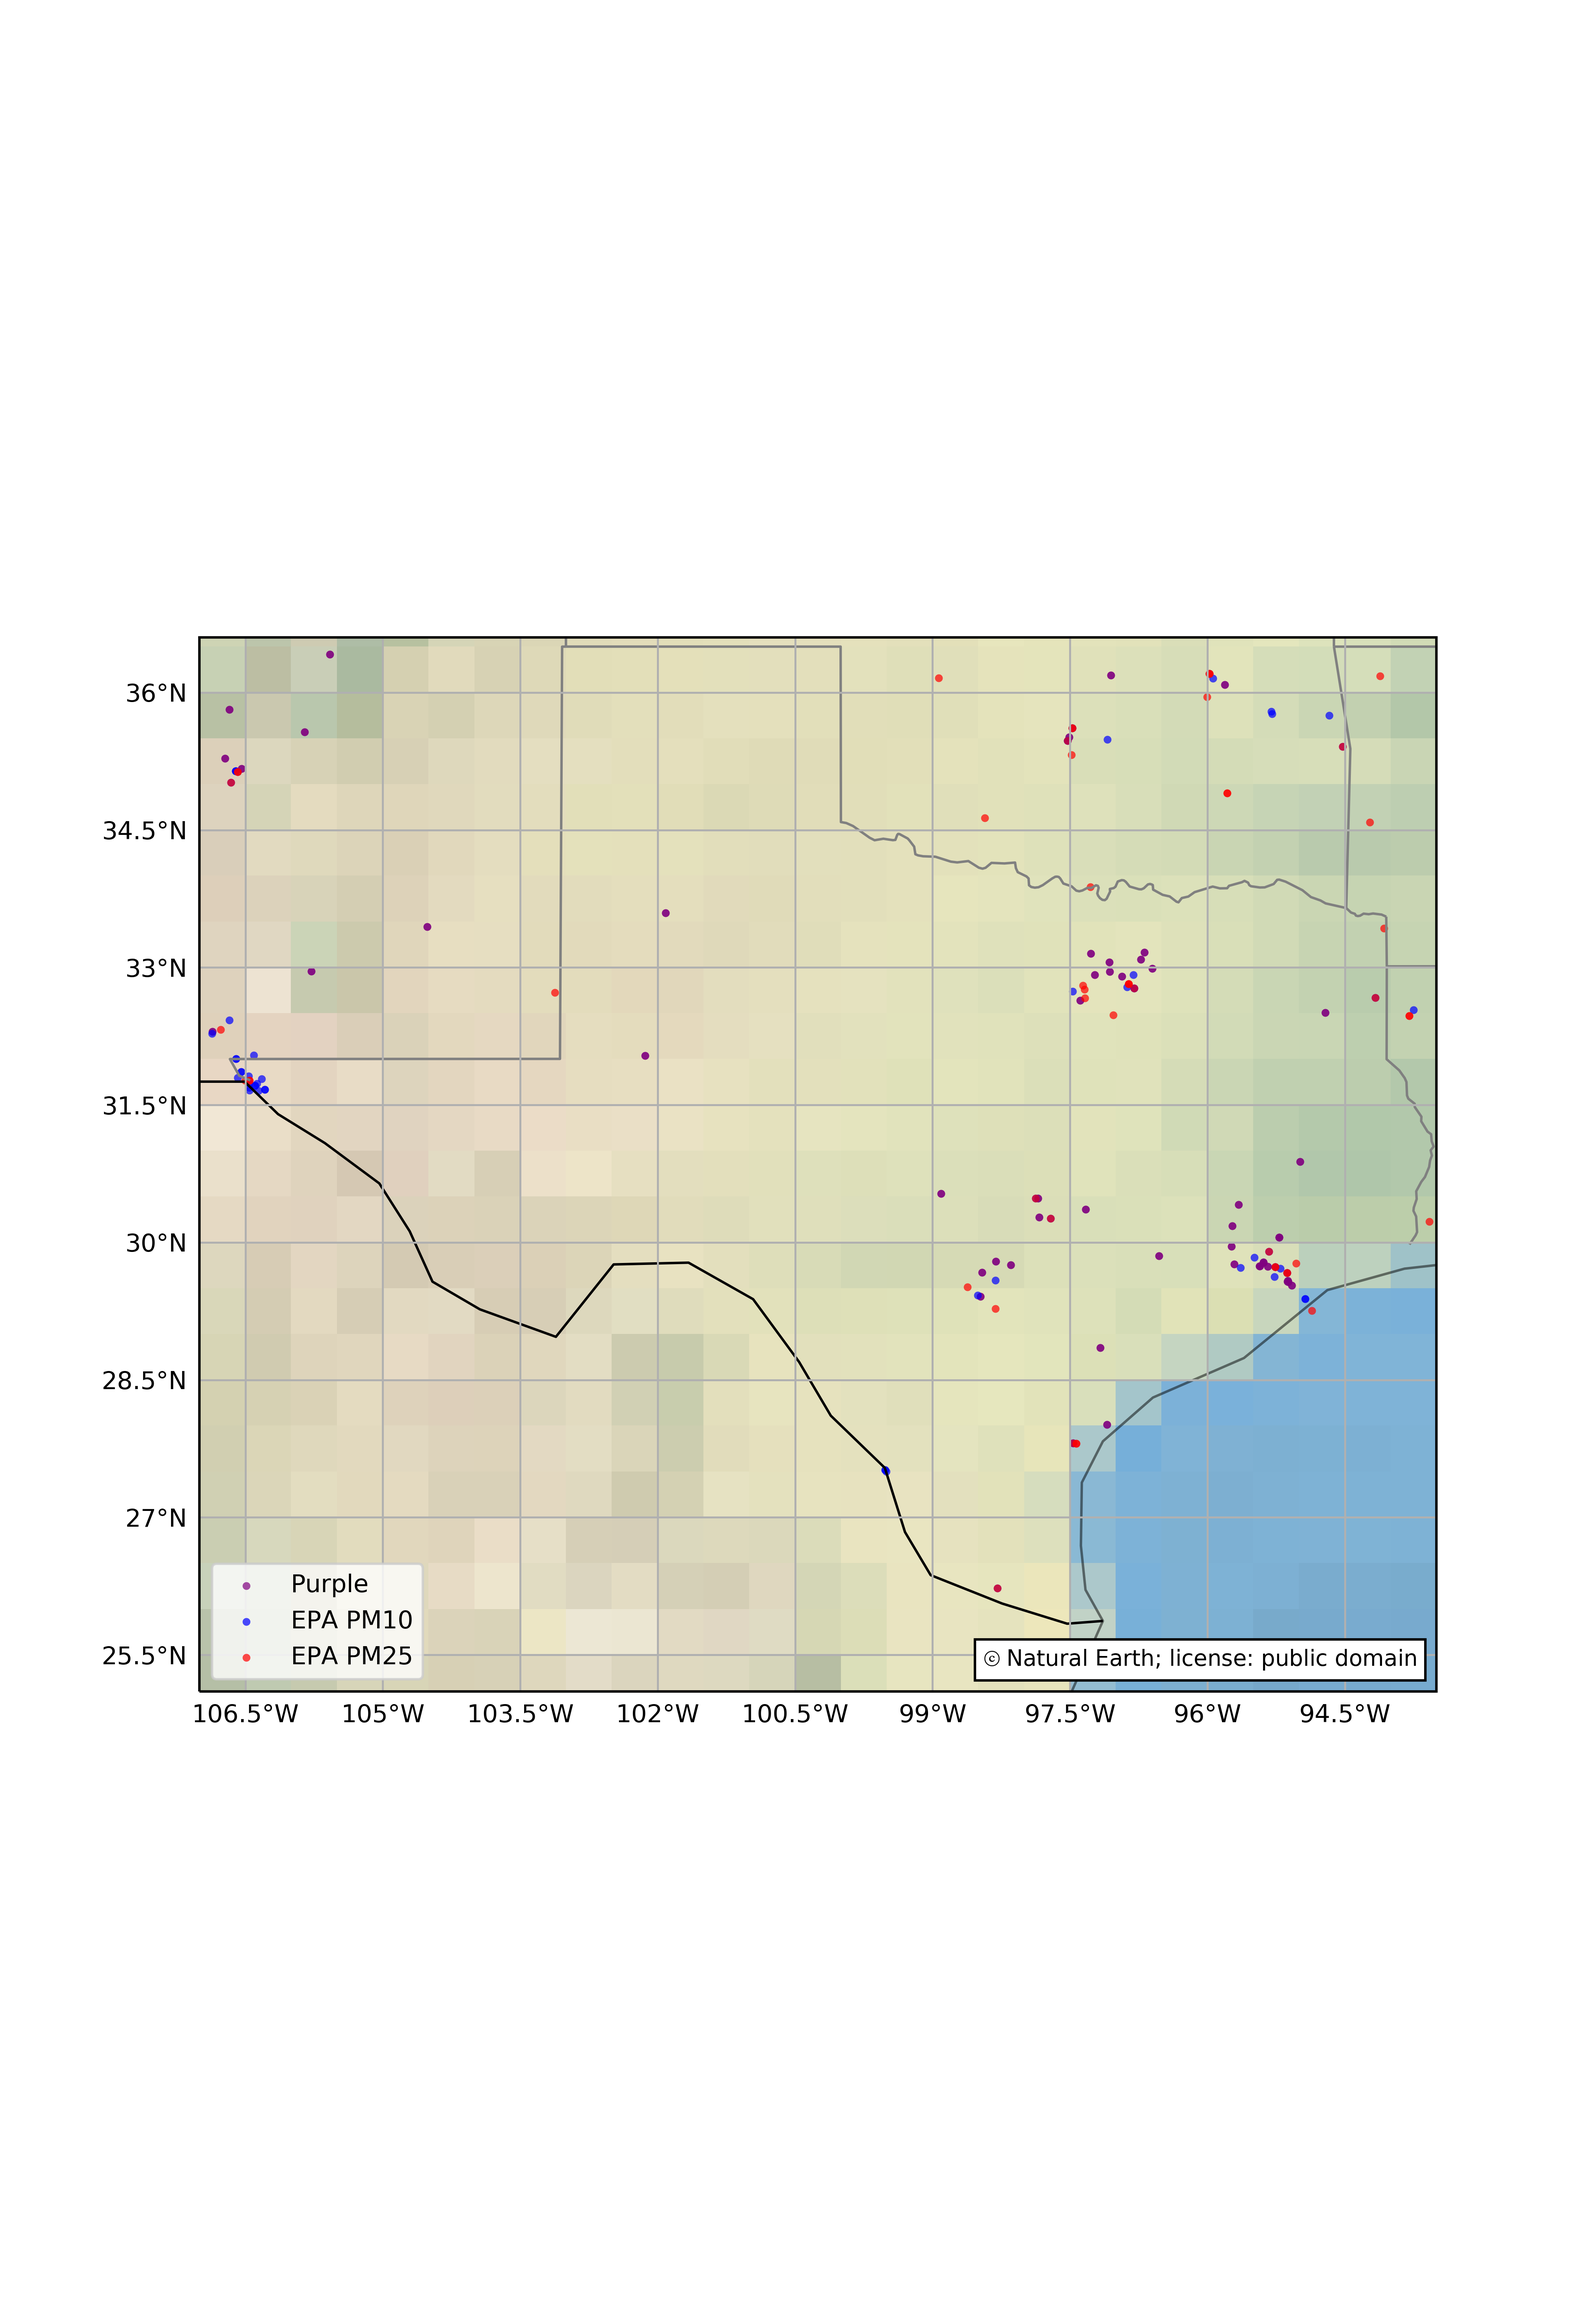
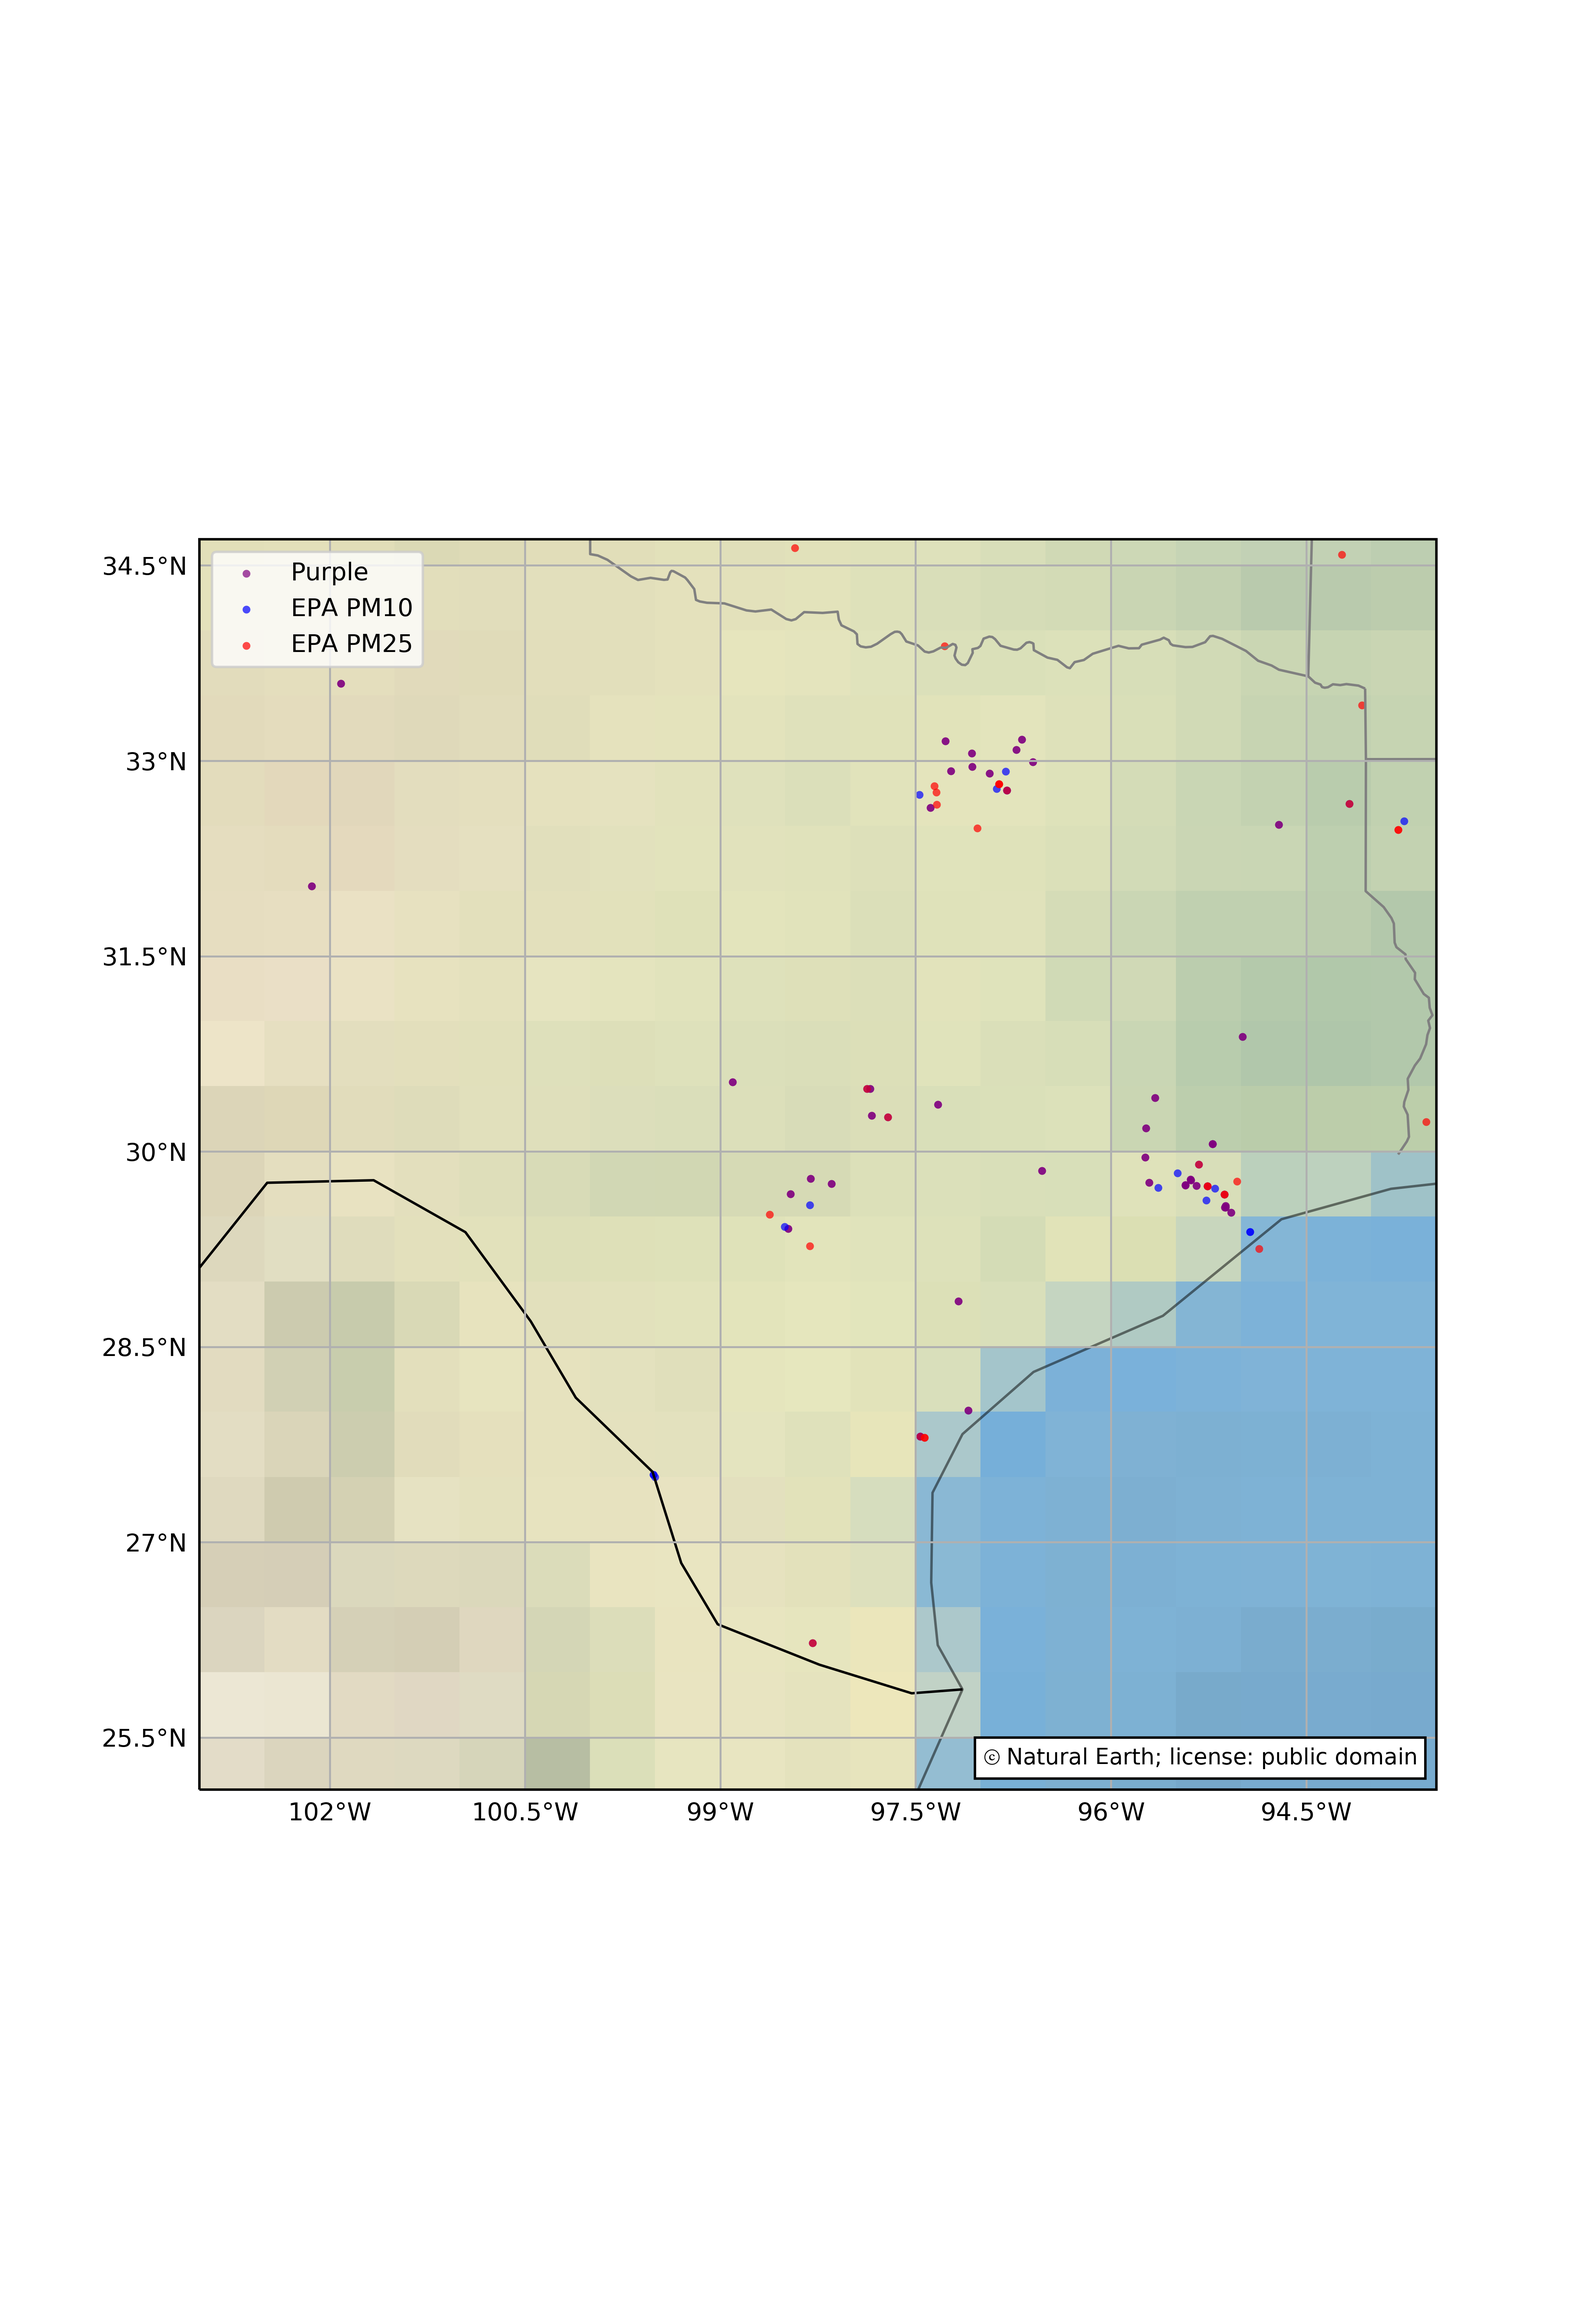
5.2 Purple out-side inside

diff --git a/06_read_epa_purple1.py b/06_read_epa_purple1.py
@@ -1,11 +1,5 @@
-
-# coding: utf-8
-
-# In[1]:
-
-
 #!/usr/bin/env python
-
+# -*- coding: utf-8 -*-
 """
 Read and plot EPA and Purple site
 
@@ -14,8 +8,7 @@ __author__ = "Nastaran Moghimi"
 __copyright__ = "Copyright 2017, UCAR/NOAA"
 __license__ = "GPL"
 __version__ = "1.0"
-__email__ = "nastrann.moghimi@gmail.com"
-
+__email__ = "nastarann.moghimi@gmail.com"
 
 
 import matplotlib.pyplot as plt
@@ -40,9 +33,9 @@ import cartopy.feature as cfeature
 from matplotlib.offsetbox import AnchoredText
 
 
+
 ###functions
 def get_ind(lim,lons,lats):
-
     
     [ind] = np.where((lons > lim['xmin']) & 
                     ( lons < lim['xmax']) & 
@@ -99,6 +92,7 @@ def make_map(projection=ccrs.PlateCarree()):
     return fig, ax
 
 
+
 #### MAIN
 #us
 lim = {}
@@ -107,25 +101,105 @@ lim['xmax']  = -55.
 lim['ymin']  =  15.0
 lim['ymax']  =  46.3
 
-
 #texas
-lim['xmin']  = -107.0
+lim['xmin']  = -103.0
 lim['xmax']  = -93.5
 lim['ymin']  =  25.1
-lim['ymax']  =  36.6
-
-
+lim['ymax']  =  34.7
 
 inp_dir = 'inp/'
 
-
 print ('Read ...')
+#read purple exel file                                                                                                                                                              
+#purple_stations_info_file = inp_dir + 'PurpleAir_Locations.xlsx'
+#purp_infos = pd.read_excel(purple_stations_info_file)
+#
+
+
+
+
+
+
+print ('Read XLS')
 #read purple exel file                                                                                                                                                              
 purple_stations_info_file = inp_dir + 'PurpleAir_Locations.xlsx'
 purp_infos = pd.read_excel(purple_stations_info_file)
 
-purp_subset = purp_infos[['ID','ParentID','Label','Lat','Lon', 'PM2_5Value','LastSeen']].copy()
-purp_subset = purp_subset.dropna()
+
+#### JSON ######
+json_file = inp_dir + 'purpuleair.json'
+purp_jsonall = pd.read_json(json_file)
+#
+
+from    collections import defaultdict
+
+purp_outside = defaultdict(dict)
+
+for il in range (len( purp_jsonall)):
+    res      = purp_jsonall.iloc[il]['results']
+    location = res['DEVICE_LOCATIONTYPE']
+    label    = res['Label']
+    print ('  > ',il,location)
+    
+    try:
+        if 'outside' in location:
+            purp_outside [res['ID']]['lat'  ]     = res['Lat']
+            purp_outside [res['ID']]['lon'  ]     = res['Lon']
+            purp_outside [res['ID']]['pm2_5']     = res['PM2_5Value']
+            purp_outside [res['ID']]['last_seen'] = datetime.datetime(1970,1,1) + datetime.timedelta(seconds = res['LastSeen'] )
+            purp_outside [res['ID']]['location' ] = location
+            purp_outside [res['ID']]['label'    ] = label
+        else:
+            print ('     * Not outside')
+    
+    except:
+        print ('===None')
+#############################################
+
+for sta_id in purp_outside.keys():
+    print(sta_id)
+    for id1 in purp_infos.index:
+        if sta_id == purp_infos['ID'][id1]:
+            purp_outside[sta_id]['lat']= purp_infos['Lat'][id1]
+            purp_outside[sta_id]['lon']= purp_infos['Lon'][id1]
+
+
+#####
+purp_in_lim = defaultdict(dict)
+for key in purp_outside.keys():
+    lons = purp_outside [key]['lon']       
+    lats = purp_outside [key]['lat']       
+
+    try:
+        if ((lons > lim['xmin']) & ( lons < lim['xmax']) & ( lats > lim['ymin']) & (lats < lim['ymax'])):
+            purp_in_lim [key]  = purp_outside [key]
+    except:
+        print (key)
+        pass
+
+#plot stations
+print ('Static Cartopy map ...')
+fig,ax = make_map()                                             
+for key in purp_in_lim.keys():
+    ax.scatter(x = purp_in_lim[key]['lon'] , y = purp_in_lim[key]['lat'] ,s=20,lw=0,label = key ,alpha=0.85)
+
+ax.set_title('Purple stations: Outside')
+
+#ax.legend(ncol=4)
+#ax.scatter(x=epa_pm10_locs['lon'][epa_ind_pm10]  ,y=epa_pm10_locs['lat'] [epa_ind_pm10]   ,s=10,c='blue'  ,lw=0,label = 'EPA PM10',alpha=0.7)
+#ax.scatter(x=epa_pm25_locs['lon'][epa_ind_pm25]  ,y=epa_pm25_locs['lat'] [epa_ind_pm25]   ,s=10,c='red'   ,lw=0,label = 'EPA PM25',alpha=0.7)
+#ax.legend()  
+ax.set_xlim(lim['xmin'],lim['xmax'])
+ax.set_ylim(lim['ymin'],lim['ymax'])
+
+plt.savefig('purpule_outside.png',dpi=450)
+plt.show()
+#plt.close('all')
+
+
+
+
+
 
 #read EPA locations from csv                                                                                                                                                         
 epa_pm10_info_file = inp_dir + 'PM10.csv'
@@ -136,7 +210,7 @@ epa_pm25_locs      = pd.read_csv(epa_pm25_info_file)
 
 print ('get index ...')
 #get index of obs sites inside epecific window LIM
-purp_ind     = get_ind(lim=lim,lons=purp_infos   ['Lon'][:],lats=purp_infos   ['Lat'][:])
+
 epa_ind_pm10 = get_ind(lim=lim,lons=epa_pm10_locs['lon'][:],lats=epa_pm10_locs['lat'][:])
 epa_ind_pm25 = get_ind(lim=lim,lons=epa_pm25_locs['lon'][:],lats=epa_pm25_locs['lat'][:])
 
@@ -152,83 +226,31 @@ ax.set_ylim(lim['ymin'],lim['ymax'])
 
 plt.savefig('test_map.png',dpi=450)
 plt.show()
+#plt.close('all')
 
 
-if False:
-    print (' Plot mplleaflet map ...')
-    # live mplleaflet map
-    # Set up figure and axis
-    f2, ax2 = plt.subplots(1)
-    ax2.scatter(x=purp_infos['Lon'][purp_ind]         ,y=purp_infos   ['Lat'][purp_ind]     ,c='purple',alpha=0.5,s=25)   
-    ax2.scatter(x=epa_pm10_locs['lon'][epa_ind_pm10]  ,y=epa_pm10_locs['lat'][epa_ind_pm10] ,c='blue'  ,alpha=0.5,s=25)   
-    ax2.scatter(x=epa_pm25_locs['lon'][epa_ind_pm25]  ,y=epa_pm25_locs['lat'][epa_ind_pm25] ,c='red'   ,alpha=0.5,s=25)   
-    ax2.set_xlim(-132,-65)  #lon limits 
-    ax2.set_ylim( 20 , 55)  #lat limits  
-    #mapfile = 'test_mpleaflet.html'
-    #mplleaflet.show(fig=f2,path=mapfile, tiles='mapbox bright')
-
-    mapfile = 'test_mpleaflet2.html'
-    mplleaflet.show(fig=f2,path=mapfile)
-
-    ### nicer       
-    print (' Plot folium map ...')
-    width, height = 1200, 800            
-    map = folium.Map(location=[42, -102],                                            
-                     zoom_start=3, tiles='OpenStreetMap', width=width, height=height)                        
-                                                                                                             
-    marker_cluster = folium.MarkerCluster().add_to(map)
-    print ('Map EPA pm10 obs ...'             )
-    for i in epa_ind_pm10:                                      
-        folium.Marker(location=[epa_pm10_locs['lat'][i],epa_pm10_locs['lon'][i]],     
-                          popup='EPA PM10 (' + str(epa_pm10_locs.Name[i])+')' ,
-                          #icon = epa_ic                
-                          icon=folium.Icon(color='blue', icon_color='white')
-                          ).add_to(marker_cluster)
-                                                                   
-
-    for i in epa_ind_pm25:                                      
-        folium.Marker(location=[epa_pm25_locs['lat'][i],epa_pm25_locs['lon'][i]],     
-                          popup='EPA pm25 (' + str(epa_pm25_locs.Name[i])+')' ,
-                          #icon = epa_ic                
-                          icon=folium.Icon(color='blue', icon_color='white')
-                          ).add_to(marker_cluster)
-
-    print  ('Map purple obs ...'          )
-    for i in purp_ind:                                                      
-        folium.Marker(location=[purp_infos   ['Lat'][i],purp_infos   ['Lon'][i]],
-                          popup='Purple (' + purp_infos['Label'][i]+')' ,
-                          #icon = epa_ic
-                          icon=folium.Icon(color='purple', icon_color='white')
-                          ).add_to(marker_cluster)
-                                   
-    map.save('test_folium.html')   
-                                     
 
 
-#json_file = inp_dir + 'purpuleair.json'
-json_file =   'p1.json'
-purp_subset = pd.read_json(json_file)
 
 
-from    collections import defaultdict
-purp_outside = defaultdict(dict)
-for il in range (len( purp_subset)):
-    res      = purp_subset.iloc[il]['results']
-    label    = res['Label'].strip()
-    location = res['DEVICE_LOCATIONTYPE']
-    print (il,label,location)
-    
-    try:
-        if 'out' in location:
-            purp_outside [res['ID']]['lat'  ]     = res['Lat']
-            purp_outside [res['ID']]['lon'  ]     = res['Lon']
-            purp_outside [res['ID']]['pm2_5']     = res['PM2_5Value']
-            purp_outside [res['ID']]['last_seen'] = datetime.datetime(1970,1,1) + datetime.timedelta(seconds = res['LastSeen'] )
-            purp_outside [res['ID']]['location' ] = location
-            purp_outside [res['ID']]['label'    ] = label
-    except:
-        print ('None')
-             
+
+
+
+
+
+
+
+
+
+
+
+
+
+
+
+
+
+
 
 
 
@@ -385,12 +407,6 @@ for il in range (len( purp_subset)):
 #import json
 #json_file = inp_dir + 'purpuleair.json'
 #purp_data     = json.load(open(json_file))
-
-
-
-
-
-
 
 
 
